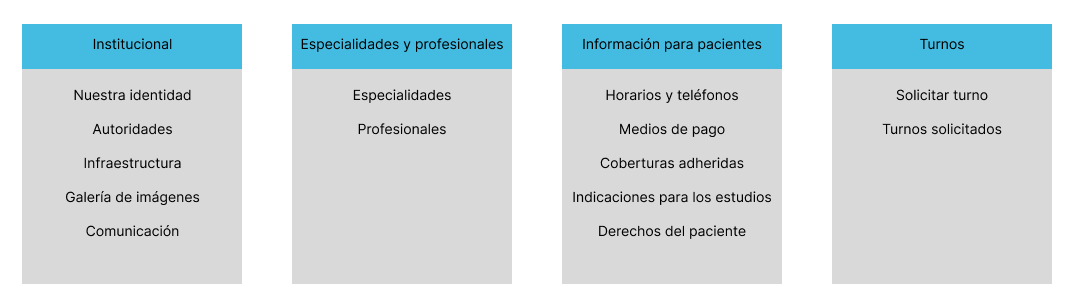
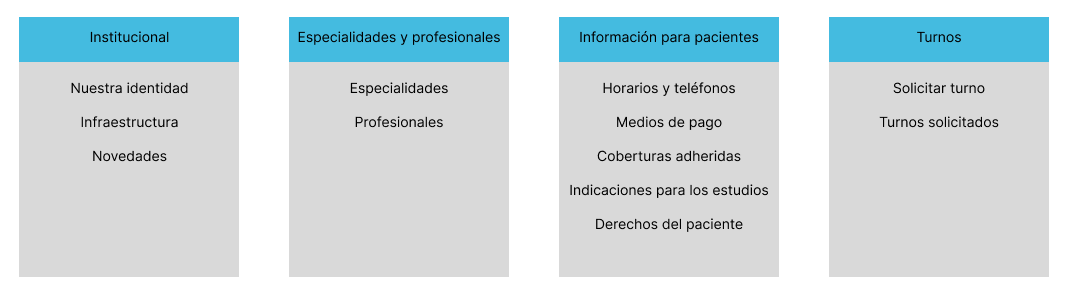
feat: agrega páginas de la sección "Institucional"

diff --git a/src/identidad.html b/src/identidad.html
@@ -35,35 +35,27 @@
       </nav>
     </header>
     <main>
-      <h2>Solicitar turno</h2>
-      <form action="#" method="POST">
-        <div>
-          <label for="name-field">Nombre y apellido</label>
-          <input type="text" id="name-field" name="name" required>
-        </div>
-        <div>
-          <label for="phone-field">Teléfono celular</label>
-          <input type="tel" id="phone-field" name="phone" placeholder="Sin 0 ni 15, solo dígitos" required>
-        </div>
-        <div>
-          <label for="email-field">Correo</label>
-          <input type="email" id="email-field" name="email" placeholder="correo@ejemplo.com" required>
-        </div>
-        <div>
-          <label for="birthdate-field">Fecha de nacimiento</label>
-          <input type="date" id="birthdate-field" name="birthdate" required>
-        </div>
-        <div>
-          <label for="turn-date-field">Fecha del turno</label>
-          <input type="date" id="turn-date-field" name="turn-date" required>
-        </div>
-        <div>
-          <label for="turn-time-field">Hora del turno</label>
-          <input type="time" id="turn-time-field" name="turn-time" required>
-        </div>
-        <button type="submit">Solicitar</button>
-        <button type="reset">Limpiar</button>
-      </form>
+      <h2>Nuestra identidad</h2>
+      <section>
+        <h3>Misión</h3>
+        <p>Brindar atención médica integral, humanizada y de alta calidad a nuestros pacientes, promoviendo la prevención, el diagnóstico oportuno y el tratamiento eficaz, con un equipo multidisciplinario comprometido con la salud y el bienestar de la comunidad.</p>
+      </section>
+      <section>
+        <h3>Visión</h3>
+        <p>Ser un centro de salud de referencia nacional por su excelencia clínica, innovación tecnológica y compromiso social, contribuyendo al desarrollo de un sistema de salud más accesible, equitativo y sostenible.</p>
+      </section>
+      <section>
+        <h3>Valores</h3>
+        <ul>
+          <li><span>Compromiso:</span> Trabajamos con dedicación para ofrecer atención segura y oportuna.</li>
+          <li><span>Empatía:</span> Escuchamos y entendemos las necesidades de cada paciente.</li>
+          <li><span>Ética:</span> Actuamos con integridad, transparencia y respeto por la dignidad humana.</li>
+          <li><span>Calidad:</span> Buscamos la mejora continua en todos nuestros procesos.</li>
+          <li><span>Trabajo en equipo:</span> Fomentamos la colaboración entre profesionales para una atención integral.</li>
+          <li><span>Innovación:</span> Incorporamos avances científicos y tecnológicos al servicio de la salud.</li>
+          <li><span>Responsabilidad social:</span> Contribuimos activamente al bienestar de la comunidad.</li>
+        </ul>
+      </section>
     </main>
     <footer>
       <h2>PAW Centro de Salud</h2>

diff --git a/src/infraestructura.html b/src/infraestructura.html
@@ -35,35 +35,10 @@
       </nav>
     </header>
     <main>
-      <h2>Solicitar turno</h2>
-      <form action="#" method="POST">
-        <div>
-          <label for="name-field">Nombre y apellido</label>
-          <input type="text" id="name-field" name="name" required>
-        </div>
-        <div>
-          <label for="phone-field">Teléfono celular</label>
-          <input type="tel" id="phone-field" name="phone" placeholder="Sin 0 ni 15, solo dígitos" required>
-        </div>
-        <div>
-          <label for="email-field">Correo</label>
-          <input type="email" id="email-field" name="email" placeholder="correo@ejemplo.com" required>
-        </div>
-        <div>
-          <label for="birthdate-field">Fecha de nacimiento</label>
-          <input type="date" id="birthdate-field" name="birthdate" required>
-        </div>
-        <div>
-          <label for="turn-date-field">Fecha del turno</label>
-          <input type="date" id="turn-date-field" name="turn-date" required>
-        </div>
-        <div>
-          <label for="turn-time-field">Hora del turno</label>
-          <input type="time" id="turn-time-field" name="turn-time" required>
-        </div>
-        <button type="submit">Solicitar</button>
-        <button type="reset">Limpiar</button>
-      </form>
+      <h2>Infraestructura</h2>
+      <p>Nuestro centro médico cuenta con una infraestructura diseñada para brindar atención integral, cómoda y eficiente a todos nuestros pacientes. Ubicado en la ciudad de Chivilcoy, provincia de Buenos Aires, reúne múltiples especialidades médicas, lo que permite ofrecer un servicio coordinado y de calidad.</p>
+      <p>Las instalaciones están pensadas para facilitar la circulación de pacientes y profesionales, con espacios amplios, salas de espera confortables y señalización clara. Contamos con consultorios equipados para la atención en diversas áreas de la salud, respetando las normas de bioseguridad y accesibilidad.</p>
+      <p>Además, promovemos un entorno seguro y amigable, tanto para los pacientes como para el personal de salud, apostando a una atención humanizada en un espacio que favorezca el bienestar y la confianza.</p>
     </main>
     <footer>
       <h2>PAW Centro de Salud</h2>

diff --git a/src/novedades.html b/src/novedades.html
@@ -35,35 +35,25 @@
       </nav>
     </header>
     <main>
-      <h2>Solicitar turno</h2>
-      <form action="#" method="POST">
-        <div>
-          <label for="name-field">Nombre y apellido</label>
-          <input type="text" id="name-field" name="name" required>
-        </div>
-        <div>
-          <label for="phone-field">Teléfono celular</label>
-          <input type="tel" id="phone-field" name="phone" placeholder="Sin 0 ni 15, solo dígitos" required>
-        </div>
-        <div>
-          <label for="email-field">Correo</label>
-          <input type="email" id="email-field" name="email" placeholder="correo@ejemplo.com" required>
-        </div>
-        <div>
-          <label for="birthdate-field">Fecha de nacimiento</label>
-          <input type="date" id="birthdate-field" name="birthdate" required>
-        </div>
-        <div>
-          <label for="turn-date-field">Fecha del turno</label>
-          <input type="date" id="turn-date-field" name="turn-date" required>
-        </div>
-        <div>
-          <label for="turn-time-field">Hora del turno</label>
-          <input type="time" id="turn-time-field" name="turn-time" required>
-        </div>
-        <button type="submit">Solicitar</button>
-        <button type="reset">Limpiar</button>
-      </form>
+      <h2>Novedades</h2>
+      <ul>
+        <li>
+          <a href="novedades/jornada-prevencion-cardiovascular.html">
+            <article>
+              <img src="../public/img/novedades/jornada-prevencion-cardiovascular.png" alt="Jornada de prevención cardiovascular">
+              <h3>Compartimos una nueva edición de la jornada de prevención cardiovascular</h3>
+            </article>
+          </a>
+        </li>
+        <li>
+          <a href="novedades/unidos-por-inclusion.html">
+            <article>
+              <img src="../public/img/novedades/unidos-por-inclusion.jpg" alt="Unidos por la inclusión">
+              <h3>Compartimos una nueva edición de la jornada de prevención cardiovascular</h3>
+            </article>
+          </a>
+        </li>
+      </ul>
     </main>
     <footer>
       <h2>PAW Centro de Salud</h2>

diff --git a/src/especialidades/dermatologia.html b/src/especialidades/dermatologia.html
@@ -13,10 +13,8 @@
         <ul>
           <li>Institucional<ul>
             <li><a href="../identidad.html">Nuestra identidad</a></li>
-            <li><a href="../autoridades.html">Autoridades</a></li>
             <li><a href="../infraestructura.html">Infraestructura</a></li>
-            <li><a href="../galeria-de-imagenes.html">Galería de imágenes</a></li>
-            <li><a href="../comunicacion.html">Comunicación</a></li>
+            <li><a href="../novedades.html">Novedades</a></li>
           </ul></li>
           <li>Especialidades y profesionales<ul>
             <li><a href="../especialidades.html">Especialidades</a></li>

diff --git a/src/especialidades/neurologia.html b/src/especialidades/neurologia.html
@@ -13,10 +13,8 @@
         <ul>
           <li>Institucional<ul>
             <li><a href="../identidad.html">Nuestra identidad</a></li>
-            <li><a href="../autoridades.html">Autoridades</a></li>
             <li><a href="../infraestructura.html">Infraestructura</a></li>
-            <li><a href="../galeria-de-imagenes.html">Galería de imágenes</a></li>
-            <li><a href="../comunicacion.html">Comunicación</a></li>
+            <li><a href="../novedades.html">Novedades</a></li>
           </ul></li>
           <li>Especialidades y profesionales<ul>
             <li><a href="../especialidades.html">Especialidades</a></li>

diff --git a/src/especialidades/urologia.html b/src/especialidades/urologia.html
@@ -13,10 +13,8 @@
         <ul>
           <li>Institucional<ul>
             <li><a href="../identidad.html">Nuestra identidad</a></li>
-            <li><a href="../autoridades.html">Autoridades</a></li>
             <li><a href="../infraestructura.html">Infraestructura</a></li>
-            <li><a href="../galeria-de-imagenes.html">Galería de imágenes</a></li>
-            <li><a href="../comunicacion.html">Comunicación</a></li>
+            <li><a href="../novedades.html">Novedades</a></li>
           </ul></li>
           <li>Especialidades y profesionales<ul>
             <li><a href="../especialidades.html">Especialidades</a></li>

diff --git a/src/profesionales/gnolazco.html b/src/profesionales/gnolazco.html
@@ -13,10 +13,8 @@
         <ul>
           <li>Institucional<ul>
             <li><a href="../identidad.html">Nuestra identidad</a></li>
-            <li><a href="../autoridades.html">Autoridades</a></li>
             <li><a href="../infraestructura.html">Infraestructura</a></li>
-            <li><a href="../galeria-de-imagenes.html">Galería de imágenes</a></li>
-            <li><a href="../comunicacion.html">Comunicación</a></li>
+            <li><a href="../novedades.html">Novedades</a></li>
           </ul></li>
           <li>Especialidades y profesionales<ul>
             <li><a href="../especialidades.html">Especialidades</a></li>

diff --git a/src/profesionales/jclotrecchiano.html b/src/profesionales/jclotrecchiano.html
@@ -13,10 +13,8 @@
         <ul>
           <li>Institucional<ul>
             <li><a href="../identidad.html">Nuestra identidad</a></li>
-            <li><a href="../autoridades.html">Autoridades</a></li>
             <li><a href="../infraestructura.html">Infraestructura</a></li>
-            <li><a href="../galeria-de-imagenes.html">Galería de imágenes</a></li>
-            <li><a href="../comunicacion.html">Comunicación</a></li>
+            <li><a href="../novedades.html">Novedades</a></li>
           </ul></li>
           <li>Especialidades y profesionales<ul>
             <li><a href="../especialidades.html">Especialidades</a></li>

diff --git a/src/profesionales/lmgagliardi.html b/src/profesionales/lmgagliardi.html
@@ -13,10 +13,8 @@
         <ul>
           <li>Institucional<ul>
             <li><a href="../identidad.html">Nuestra identidad</a></li>
-            <li><a href="../autoridades.html">Autoridades</a></li>
             <li><a href="../infraestructura.html">Infraestructura</a></li>
-            <li><a href="../galeria-de-imagenes.html">Galería de imágenes</a></li>
-            <li><a href="../comunicacion.html">Comunicación</a></li>
+            <li><a href="../novedades.html">Novedades</a></li>
           </ul></li>
           <li>Especialidades y profesionales<ul>
             <li><a href="../especialidades.html">Especialidades</a></li>

diff --git a/src/profesionales/mamarchese.html b/src/profesionales/mamarchese.html
@@ -13,10 +13,8 @@
         <ul>
           <li>Institucional<ul>
             <li><a href="../identidad.html">Nuestra identidad</a></li>
-            <li><a href="../autoridades.html">Autoridades</a></li>
             <li><a href="../infraestructura.html">Infraestructura</a></li>
-            <li><a href="../galeria-de-imagenes.html">Galería de imágenes</a></li>
-            <li><a href="../comunicacion.html">Comunicación</a></li>
+            <li><a href="../novedades.html">Novedades</a></li>
           </ul></li>
           <li>Especialidades y profesionales<ul>
             <li><a href="../especialidades.html">Especialidades</a></li>

diff --git a/src/profesionales/nfgonzalez.html b/src/profesionales/nfgonzalez.html
@@ -13,10 +13,8 @@
         <ul>
           <li>Institucional<ul>
             <li><a href="../identidad.html">Nuestra identidad</a></li>
-            <li><a href="../autoridades.html">Autoridades</a></li>
             <li><a href="../infraestructura.html">Infraestructura</a></li>
-            <li><a href="../galeria-de-imagenes.html">Galería de imágenes</a></li>
-            <li><a href="../comunicacion.html">Comunicación</a></li>
+            <li><a href="../novedades.html">Novedades</a></li>
           </ul></li>
           <li>Especialidades y profesionales<ul>
             <li><a href="../especialidades.html">Especialidades</a></li>

diff --git a/src/profesionales/pholst.html b/src/profesionales/pholst.html
@@ -13,10 +13,8 @@
         <ul>
           <li>Institucional<ul>
             <li><a href="../identidad.html">Nuestra identidad</a></li>
-            <li><a href="../autoridades.html">Autoridades</a></li>
             <li><a href="../infraestructura.html">Infraestructura</a></li>
-            <li><a href="../galeria-de-imagenes.html">Galería de imágenes</a></li>
-            <li><a href="../comunicacion.html">Comunicación</a></li>
+            <li><a href="../novedades.html">Novedades</a></li>
           </ul></li>
           <li>Especialidades y profesionales<ul>
             <li><a href="../especialidades.html">Especialidades</a></li>
